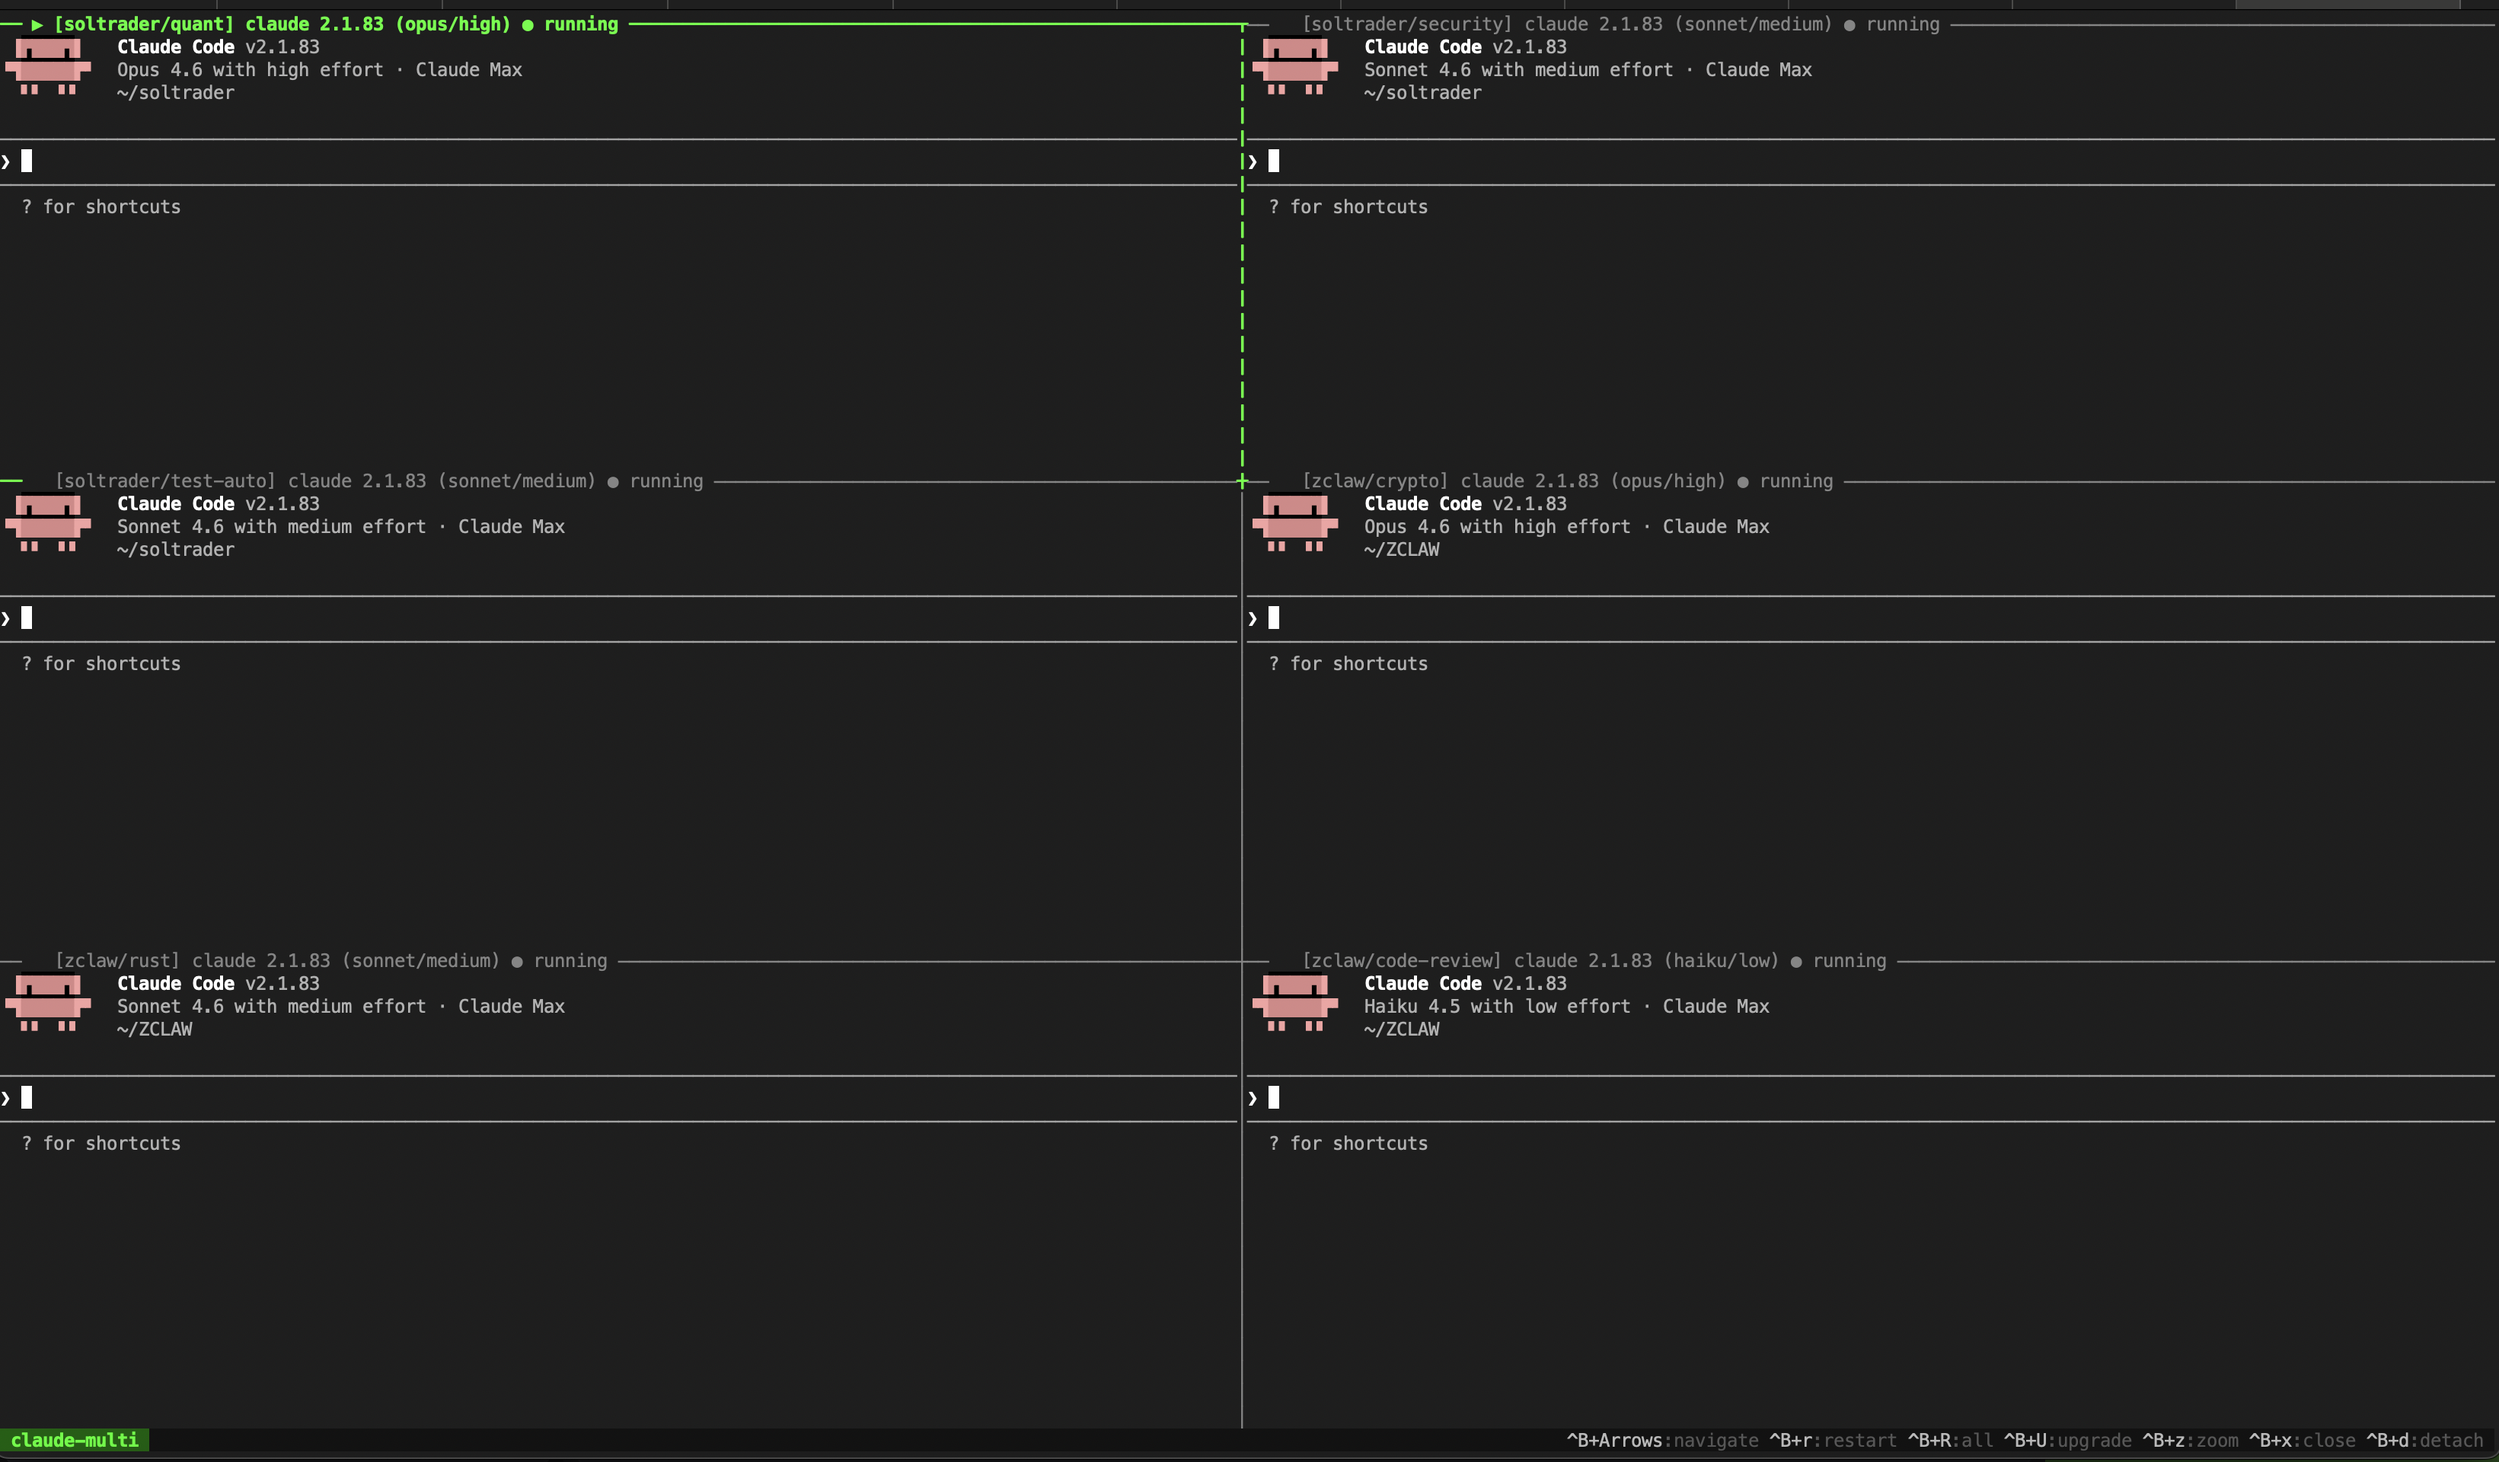
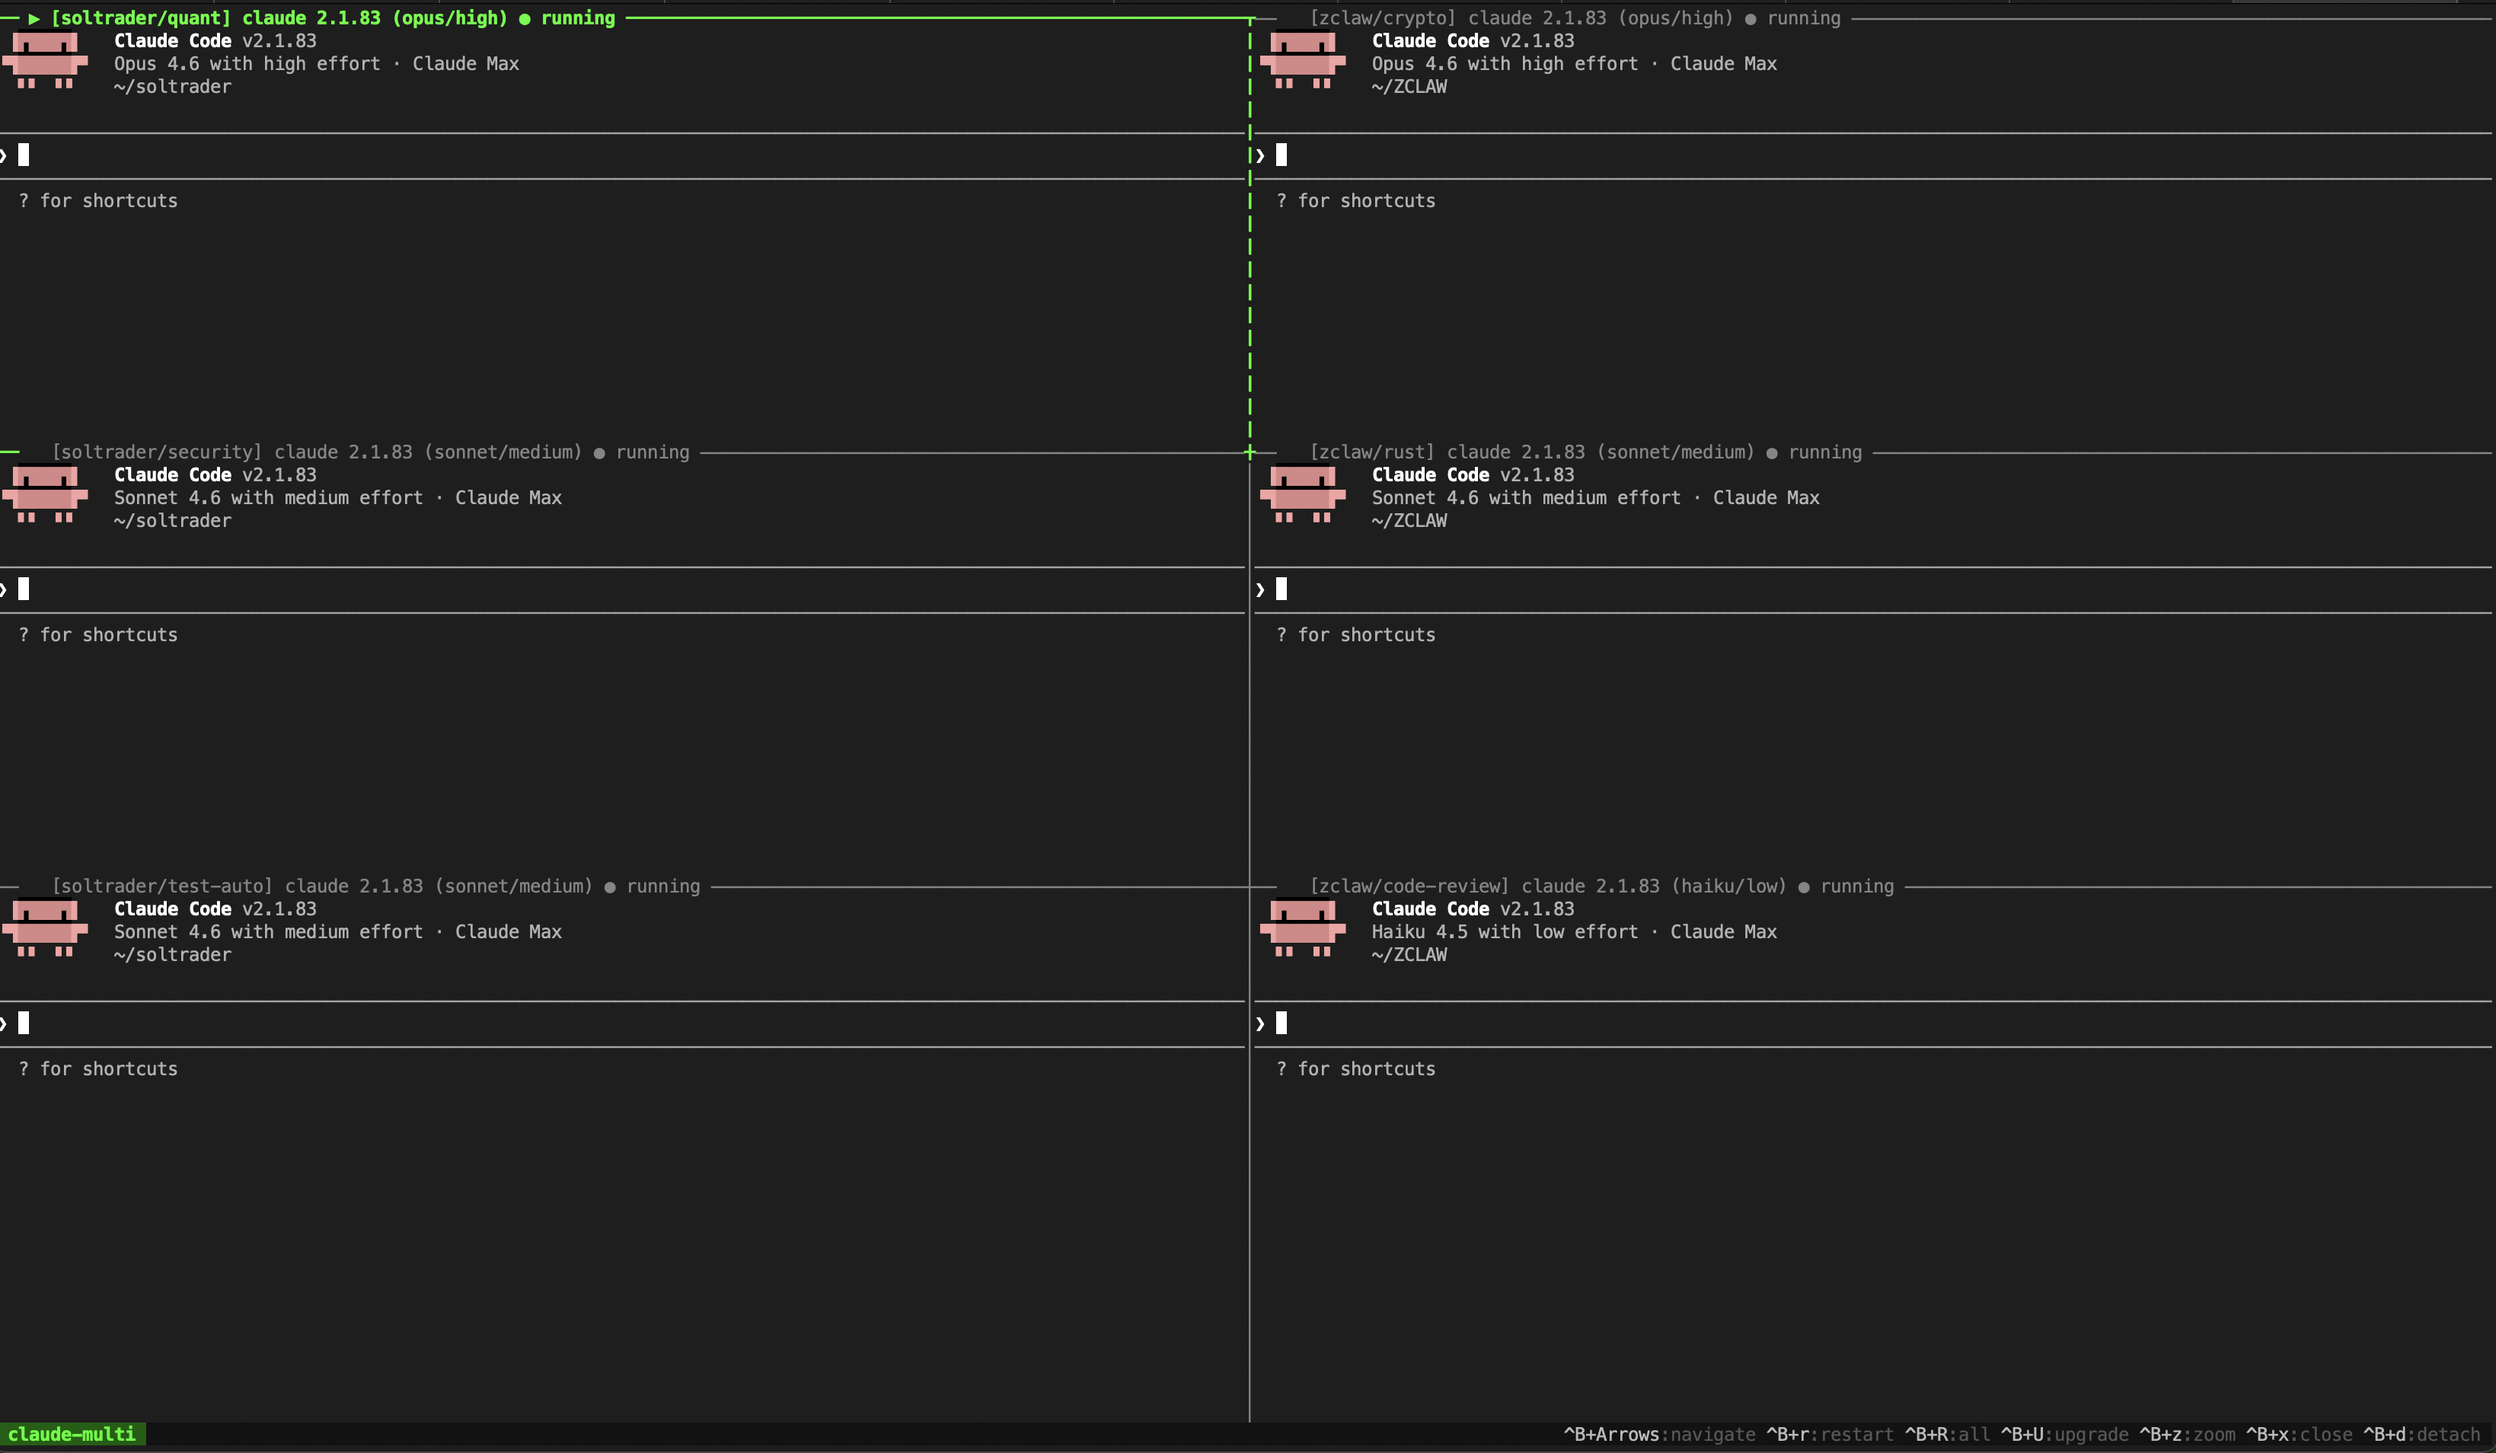
docs: update screenshot, architecture, layout diagrams for v0.1.0
- Updated screenshot showing 6-pane 2-column grid with model/effort headers
- Layout diagram shows project grouping (left col / right col)
- Architecture docs: added team context enricher, updated layout builder
- Design decisions: shared file approach, prompt files, 2-column grid

diff --git a/docs/architecture.md b/docs/architecture.md
@@ -71,7 +71,17 @@ Maps skill presets to system prompts:
 - Custom `label` overrides skill label
 - Per-pane `model` and `effort` configuration
 
-### 4. Project Validator (`validate_projects`)
+### 4. Team Context Enricher (`enrich_with_team_context`)
+
+When multiple panes share the same project directory:
+- Groups panes by resolved path
+- Creates `.claude-multi-shared.md` in the project root (shared notes file)
+- Appends collaboration instructions to each pane's system prompt:
+  - Lists teammates and their roles
+  - Rules for reading/writing the shared notes file
+  - Coordination protocol for shared file edits
+
+### 5. Project Validator (`validate_projects`)
 
 - Resolves and validates paths (`Path.expanduser().resolve()`)
 - Deduplicates by path+skill+model combo (same path with different skills is allowed)
@@ -98,10 +108,10 @@ Generates `~/.config/claude-multi/tmux.conf` on each launch:
 ### 7. Layout Builder (`build_layout_commands`)
 
 Builds tmux split-window + select-layout commands:
-- **Grid**: Uses tmux `tiled` layout
+- **Grid (4+ panes)**: Creates 2-column layout — left column = first project, right column = second. Projects are sorted by path so grouping is consistent.
+- **Grid (2-3 panes)**: Uses tmux `tiled` layout
 - **Horizontal**: Uses `even-horizontal`
 - **Vertical**: Uses `even-vertical`
-- Applies layout after each split to handle any pane count
 
 ### 8. Script Generator (`generate_scripts`)
 
@@ -163,7 +173,11 @@ Generates helper shell scripts in `~/.config/claude-multi/scripts/`:
 
 2. **`send-keys` for all panes**: All panes launched consistently via `send-keys` rather than having the first pane use `new-session`'s shell command. This ensures consistent behavior across panes.
 
-3. **Tmux `tiled` layout for grid**: Instead of manually tracking pane indices (which break when tmux renumbers after splits), we use tmux's built-in `tiled` layout and let it handle pane arrangement.
+3. **2-column grid groups by project**: For 4+ panes, the grid creates explicit left/right columns via horizontal split, then splits each column vertically. Projects are sorted by path so the left column contains the first project and the right column contains the second. For 2-3 panes, falls back to tmux `tiled` layout.
+
+7. **Team collaboration via shared file**: Rather than complex IPC between Claude sessions, we use a simple `.claude-multi-shared.md` file in the project root. Each session's system prompt includes instructions to read/write this file. This is stateless, debuggable, and works with any number of sessions.
+
+8. **System prompts in files**: System prompts are written to `scripts/prompt-{i}.txt` files and loaded via `cat` at launch time. This avoids shell quoting nightmares when passing multi-line prompts with special characters through tmux `send-keys`.
 
 4. **Self-rescheduling timer**: The upgrade checker uses `tmux run-shell -b "sleep N && bash self"` instead of a Python background thread, because the Python process is replaced by `tmux attach` via `os.execvp`.
 

diff --git a/README.md b/README.md
@@ -116,15 +116,32 @@ color = "cyan"
 
 ## Layouts
 
+**Grid (default)** — groups panes by project (left column = project A, right column = project B):
+
 ```
-Grid (default)              Horizontal                Vertical
-┌────────┬────────┐    ┌────┬────┬────┐    ┌──────────────────┐
-│ pane 1 │ pane 2 │    │  1 │  2 │  3 │    │      pane 1      │
-├────────┼────────┤    └────┴────┴────┘    ├──────────────────┤
-│ pane 3 │ pane 4 │                        │      pane 2      │
-├────────┼────────┤                        ├──────────────────┤
-│ pane 5 │ pane 6 │                        │      pane 3      │
-└────────┴────────┘                        └──────────────────┘
+┌─────────────────────┬─────────────────────┐
+│ project-a/backend   │ project-b/crypto     │
+│ (opus/high)         │ (opus/high)          │
+├─────────────────────┼─────────────────────┤
+│ project-a/security  │ project-b/rust       │
+│ (sonnet/medium)     │ (sonnet/medium)      │
+├─────────────────────┼─────────────────────┤
+│ project-a/test-auto │ project-b/reviewer   │
+│ (sonnet/medium)     │ (haiku/low)          │
+└─────────────────────┴─────────────────────┘
+```
+
+**Horizontal** and **Vertical**:
+
+```
+Horizontal                    Vertical
+┌────┬────┬────┐    ┌──────────────────┐
+│  1 │  2 │  3 │    │      pane 1      │
+└────┴────┴────┘    ├──────────────────┤
+                    │      pane 2      │
+                    ├──────────────────┤
+                    │      pane 3      │
+                    └──────────────────┘
 ```
 
 ```bash
